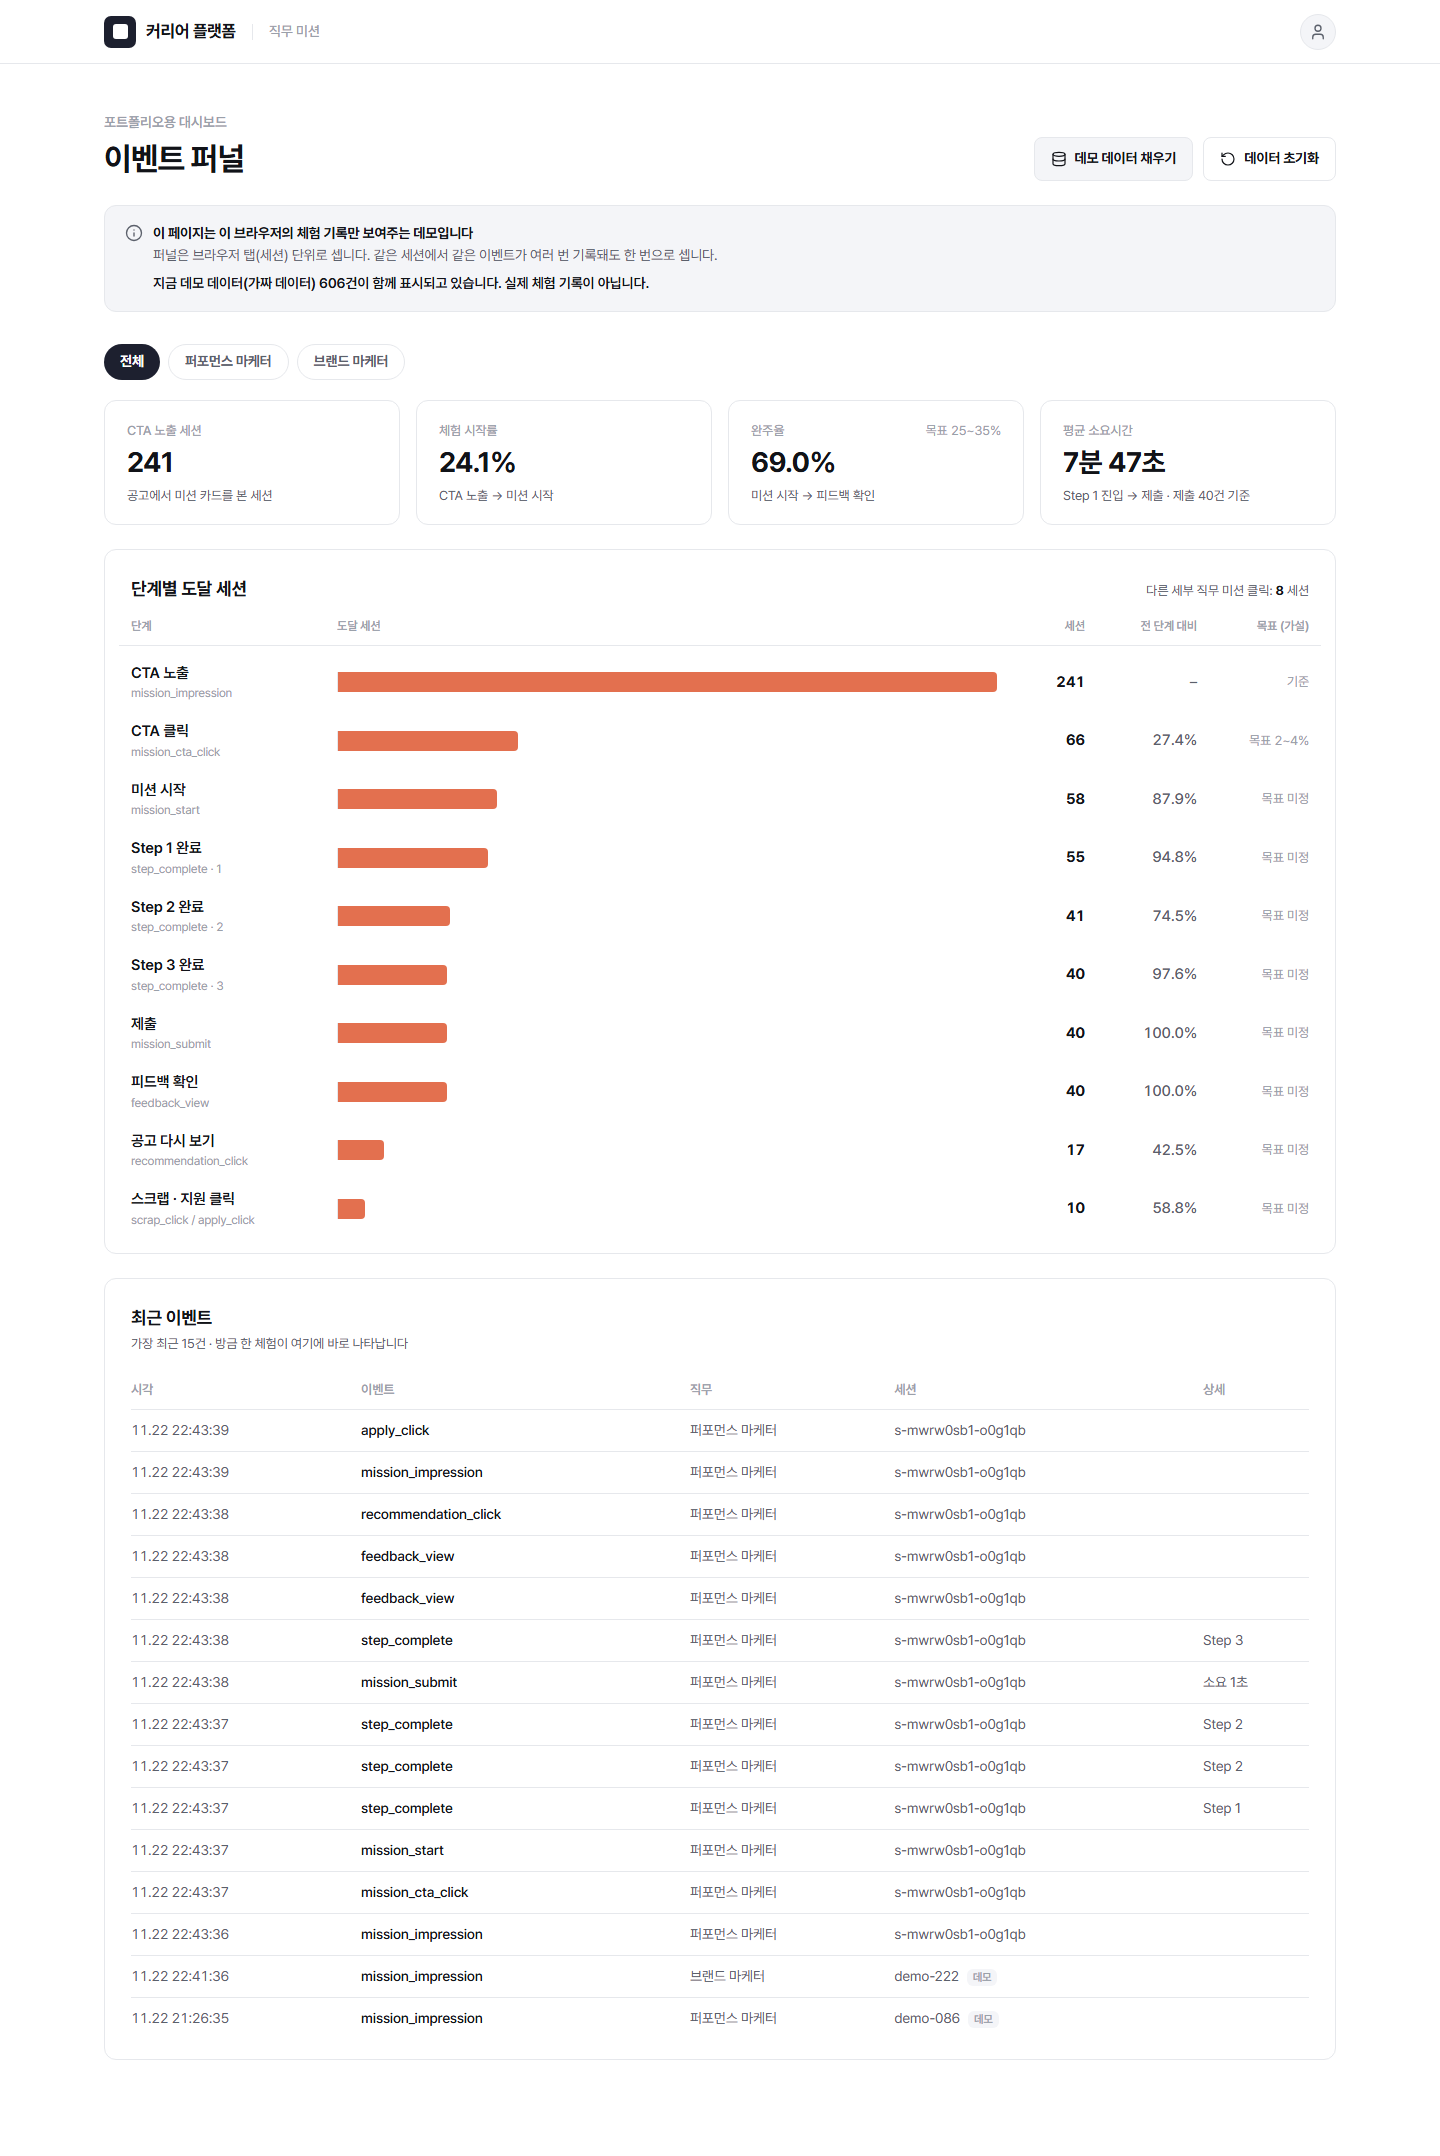
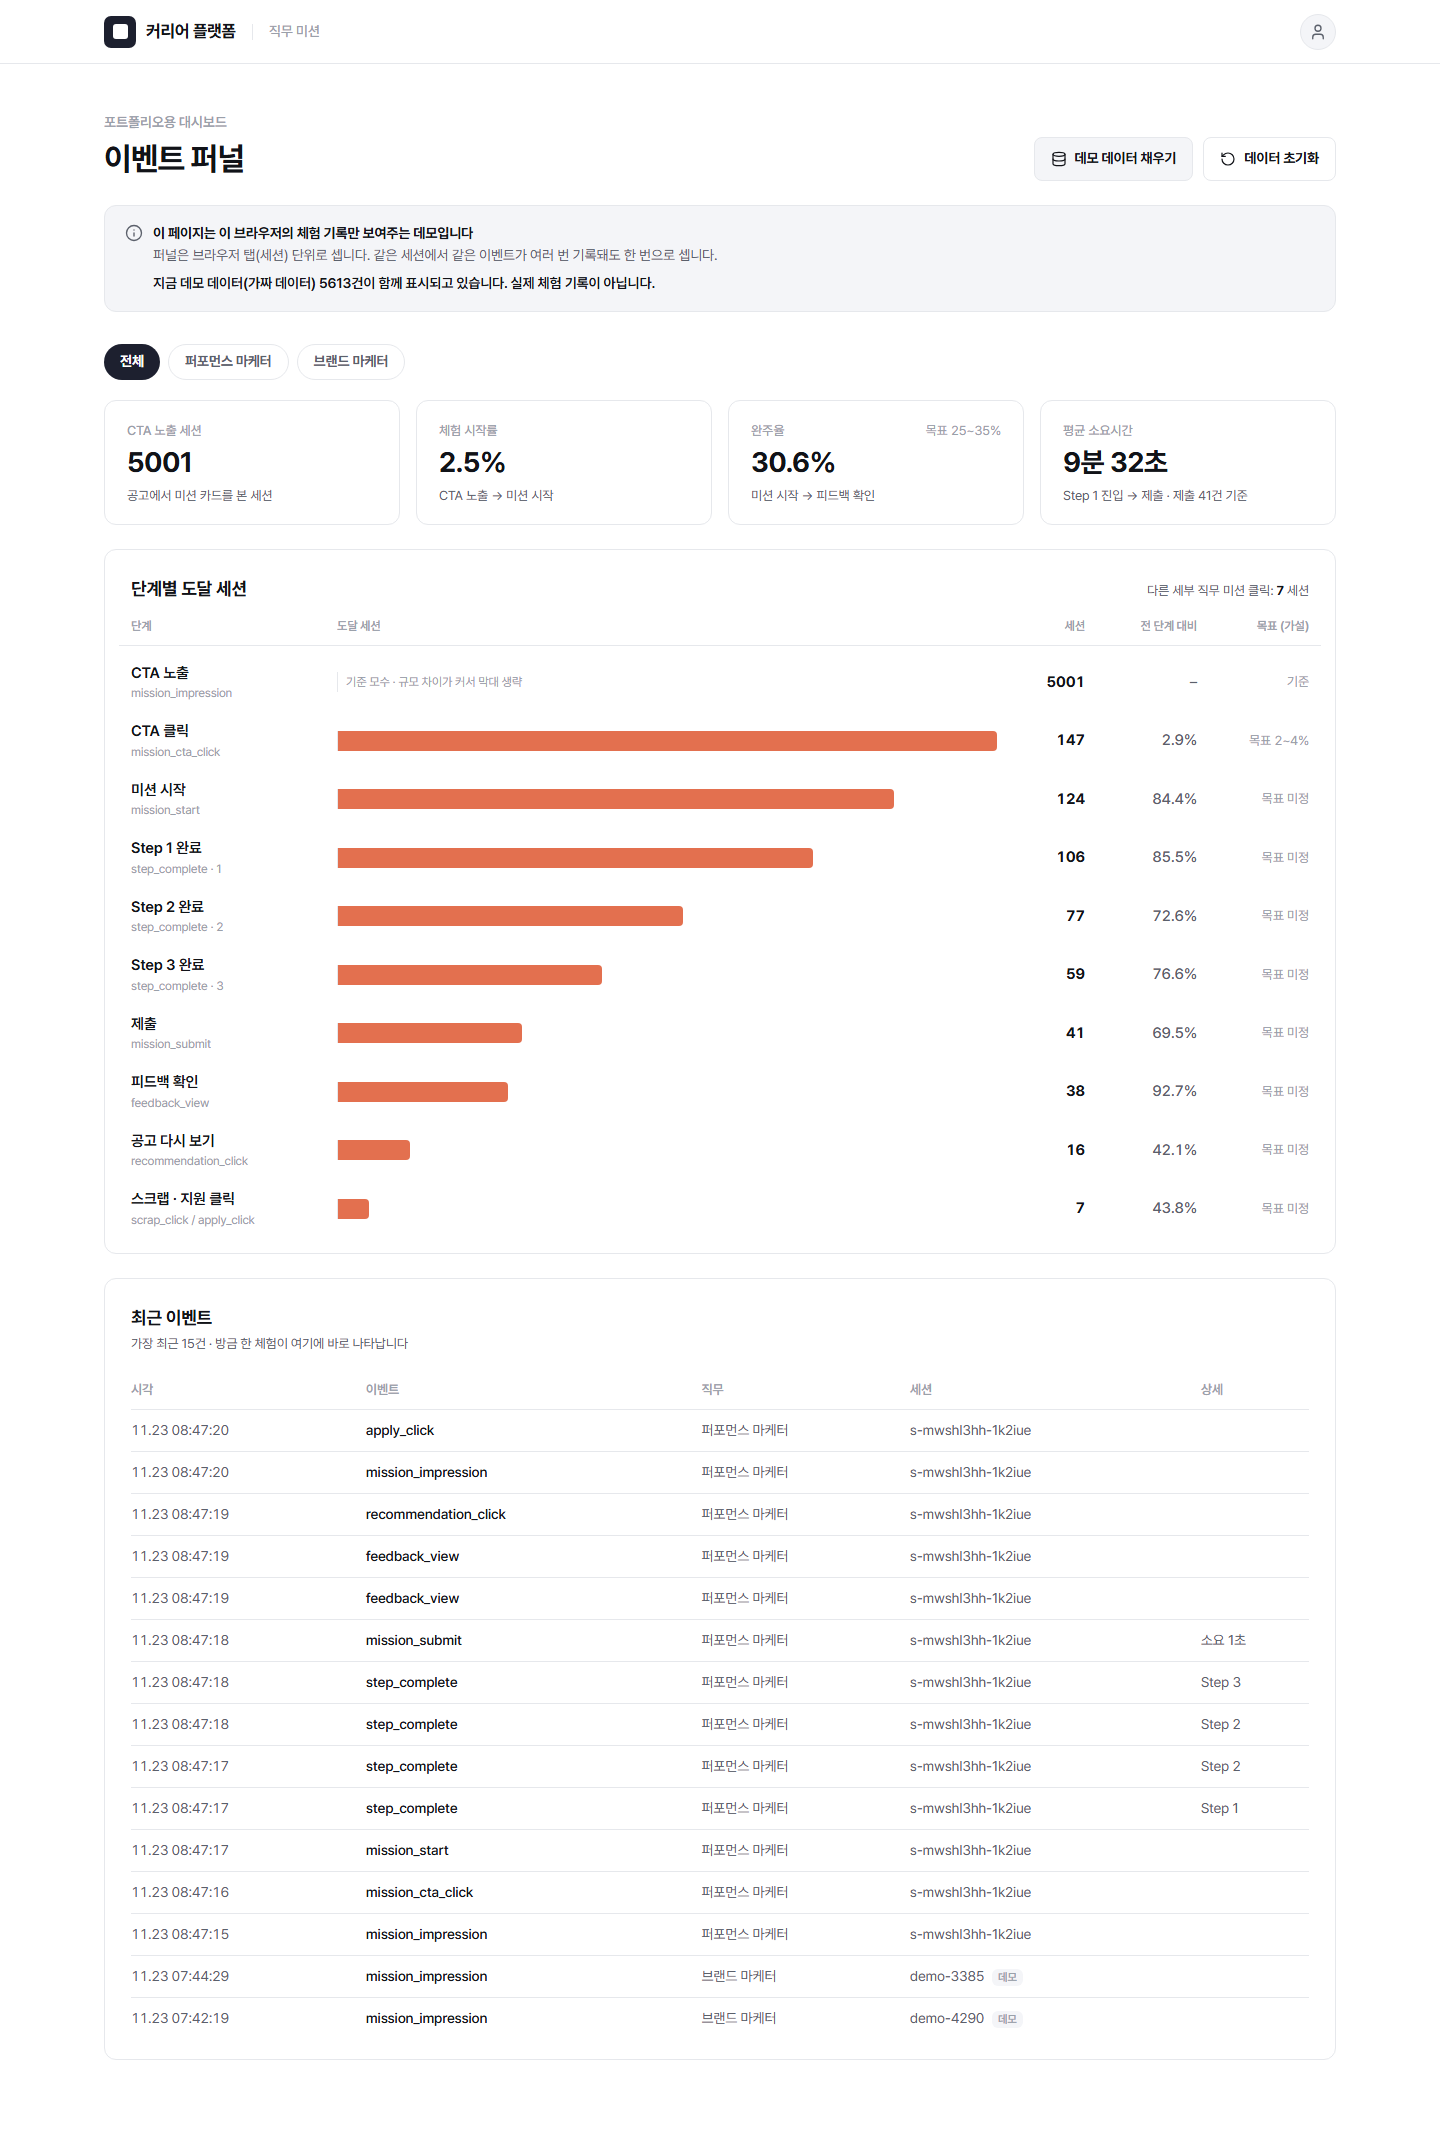
배포 URL 반영과 퍼널 데모 데이터 조정
- README에 배포 URL과 퍼널 대시보드 주소 추가
- 데모 데이터를 5,000세션으로 늘리고 목표 범위 근처로 조정
  (전체 CTA 클릭률 약 3%, 완주율 약 30%)
- 브랜드 직무는 CTA 클릭률 1.9%, 완주율 24.2%로 목표에 조금 못 미치게 구성
- CTA 노출이 다른 단계보다 5배 이상 크면 노출 막대를 생략해 나머지 단계를 비교하기 쉽게 표시
- 퍼널 검증에 목표 비율과 가짜 데이터 안내 확인 추가

diff --git a/lib/funnel.ts b/lib/funnel.ts
@@ -105,7 +105,9 @@ export function computeFunnel(all: TrackedEvent[], filter: string): FunnelSummar
   return { rows, avgDurationSec, submitCount: durations.length, nextMissionSessions };
 }
 
-// ── 데모 데이터 (가짜). 같은 결과가 나오도록 고정 시드 난수를 쓴다. ──
+// ── 데모 데이터 (가짜). 고정 시드와 단계별 고정 세션 수로 항상 같은 결과가 나온다. ──
+// 전체: CTA 클릭률 약 3%, 완주율 약 30% (목표 범위 안)
+// 브랜드: CTA 클릭률 1.9%, 완주율 24.2% (목표 2~4%, 25~35%에 조금 못 미치게)
 
 function mulberry32(seed: number) {
   return () => {
@@ -117,42 +119,48 @@ function mulberry32(seed: number) {
   };
 }
 
-export const DEMO_SESSIONS = 240;
+const DEMO_PLAN = {
+  "performance-marketing": {
+    impression: 3000, cta: 108, start: 90, step1: 78, step2: 58, step3: 45,
+    submit: 31, feedback: 29, next: 5, recommendation: 12, action: 5,
+  },
+  "brand-marketing": {
+    impression: 2000, cta: 38, start: 33, step1: 27, step2: 18, step3: 13,
+    submit: 9, feedback: 8, next: 2, recommendation: 3, action: 1,
+  },
+} as const;
+
+export const DEMO_SESSIONS = Object.values(DEMO_PLAN).reduce((sum, p) => sum + p.impression, 0);
 
 export function generateDemoEvents(now: number = Date.now()): TrackedEvent[] {
   const rand = mulberry32(20261122);
   const out: TrackedEvent[] = [];
-  for (let i = 0; i < DEMO_SESSIONS; i++) {
-    const sid = `demo-${String(i).padStart(3, "0")}`;
-    const id = rand() < 0.6 ? "performance-marketing" : "brand-marketing";
-    let ts = now - Math.floor(rand() * 14 * 86_400_000);
-    const push = (name: EventName, props: TrackedEvent["props"] = {}) => {
-      ts += Math.floor(5_000 + rand() * 60_000);
-      out.push({ name, ts, sid, props: { ...props, demo: true } });
-    };
+  let index = 0;
 
-    push("mission_impression", { jobId: id });
-    const goNext = (p: number) => rand() < p;
-    if (goNext(0.3)) {
-      push("mission_cta_click", { jobId: id });
-      if (goNext(0.85)) {
-        push("mission_start", { missionId: id });
-        let reached = 0;
-        for (const [step, p] of [[1, 0.92], [2, 0.78], [3, 0.9]] as const) {
-          if (!goNext(p)) break;
-          push("step_complete", { missionId: id, step });
-          reached = step;
-        }
-        if (reached === 3 && goNext(0.95)) {
-          push("mission_submit", { missionId: id, durationSec: Math.floor(240 + rand() * 540) });
-          push("feedback_view", { missionId: id });
-          if (goNext(0.2)) push("next_mission_click", { from: id, to: id === "performance-marketing" ? "brand-marketing" : "performance-marketing" });
-          if (goNext(0.4)) {
-            push("recommendation_click", { missionId: id, jobId: id });
-            if (goNext(0.45)) push(rand() < 0.65 ? "scrap_click" : "apply_click", { jobId: id });
-          }
-        }
+  for (const [id, plan] of Object.entries(DEMO_PLAN)) {
+    const other = id === "performance-marketing" ? "brand-marketing" : "performance-marketing";
+    for (let i = 0; i < plan.impression; i++) {
+      const sid = `demo-${String(index++).padStart(4, "0")}`;
+      // 마지막 이벤트가 미래 시각이 되지 않도록 1시간 이전부터 시작한다
+      let ts = now - 3_600_000 - Math.floor(rand() * 14 * 86_400_000);
+      const push = (name: EventName, props: NonNullable<TrackedEvent["props"]>) => {
+        ts += Math.floor(5_000 + rand() * 60_000);
+        out.push({ name, ts, sid, props: { ...props, demo: true } });
+      };
+
+      push("mission_impression", { jobId: id });
+      if (i < plan.cta) push("mission_cta_click", { jobId: id });
+      if (i < plan.start) push("mission_start", { missionId: id });
+      if (i < plan.step1) push("step_complete", { missionId: id, step: 1 });
+      if (i < plan.step2) push("step_complete", { missionId: id, step: 2 });
+      if (i < plan.step3) push("step_complete", { missionId: id, step: 3 });
+      if (i < plan.submit) {
+        push("mission_submit", { missionId: id, durationSec: Math.floor(240 + rand() * 540) });
       }
+      if (i < plan.feedback) push("feedback_view", { missionId: id });
+      if (i < plan.next) push("next_mission_click", { from: id, to: other });
+      if (i < plan.recommendation) push("recommendation_click", { missionId: id, jobId: id });
+      if (i < plan.action) push(rand() < 0.65 ? "scrap_click" : "apply_click", { jobId: id });
     }
   }
   return out.sort((a, b) => a.ts - b.ts);

diff --git a/components/FunnelDashboard.tsx b/components/FunnelDashboard.tsx
@@ -48,8 +48,8 @@ function StatTile({
   );
 }
 
-function FunnelBar({ row, max }: { row: FunnelRow; max: number }) {
-  const width = max > 0 ? (row.sessions / max) * 100 : 0;
+function FunnelBar({ row, max, omitBar }: { row: FunnelRow; max: number; omitBar: boolean }) {
+  const width = !omitBar && max > 0 ? (row.sessions / max) * 100 : 0;
   const target = KPI_TARGETS[row.key];
   return (
     <li
@@ -62,10 +62,17 @@ function FunnelBar({ row, max }: { row: FunnelRow; max: number }) {
       </div>
 
       <div className="relative h-5 border-l border-border">
-        <div
-          className="h-5 rounded-r-[4px] bg-accent"
-          style={{ width: `${width}%`, minWidth: row.sessions > 0 ? 2 : 0 }}
-        />
+        {omitBar ? (
+          // TODO(문구): 막대 생략 안내
+          <span className="flex h-5 items-center pl-2 text-[12px] text-text-muted">
+            기준 모수 · 규모 차이가 커서 막대 생략
+          </span>
+        ) : (
+          <div
+            className="h-5 rounded-r-[4px] bg-accent"
+            style={{ width: `${width}%`, minWidth: row.sessions > 0 ? 2 : 0 }}
+          />
+        )}
         {/* 호버·포커스 툴팁 */}
         <div
           role="tooltip"
@@ -140,7 +147,11 @@ export default function FunnelDashboard() {
   const [filter, setFilter] = useState("all");
   const summary = useMemo(() => computeFunnel(events, filter), [events, filter]);
   const demoCount = events.filter(isDemo).length;
-  const max = Math.max(1, ...summary.rows.map((r) => r.sessions));
+  // 노출이 다음 단계들보다 5배 이상 크면 노출 막대를 빼고 나머지 단계끼리 같은 축으로 비교한다.
+  const impressionSessions = summary.rows[0].sessions;
+  const maxAfterFirst = Math.max(0, ...summary.rows.slice(1).map((r) => r.sessions));
+  const omitFirstBar = maxAfterFirst > 0 && impressionSessions >= maxAfterFirst * 5;
+  const max = omitFirstBar ? maxAfterFirst : Math.max(1, impressionSessions, maxAfterFirst);
   const byKey = Object.fromEntries(summary.rows.map((r) => [r.key, r]));
   const rate = (a: string, b: string) =>
     byKey[b]?.sessions ? (byKey[a].sessions / byKey[b].sessions) * 100 : null;
@@ -250,7 +261,7 @@ export default function FunnelDashboard() {
             ) : (
               <ol className="mt-2 space-y-0.5">
                 {summary.rows.map((row) => (
-                  <FunnelBar key={row.key} row={row} max={max} />
+                  <FunnelBar key={row.key} row={row} max={max} omitBar={omitFirstBar && row.key === "impression"} />
                 ))}
               </ol>
             )}

diff --git a/README.md b/README.md
@@ -2,8 +2,8 @@
 
 **채용공고를 읽기만 하는 대신, 그 공고의 실제 업무를 10분 만에 직접 해보고 현직자 기준 피드백을 받는 웹 프로토타입입니다.**
 
-- 배포 URL: 배포 후 추가 예정
-- 퍼널 대시보드: 배포 URL 뒤에 `/admin/funnel`
+- 배포 URL: https://job-mission-web.vercel.app
+- 퍼널 대시보드: https://job-mission-web.vercel.app/admin/funnel
 
 > 서비스 기획·PO 포트폴리오용 프로토타입입니다. 서비스명 "커리어 플랫폼", 회사 "(주)에코브릿지", 브랜드 "무브먼트(MOVEMENT)"는 모두 가상입니다.
 
@@ -54,7 +54,7 @@
 - 목표 가설치를 함께 표시합니다(`data/kpi.ts`).
   - CTA 노출 → CTA 클릭: 2~4%
   - 완주율(미션 시작 → 피드백 확인): 25~35%
-- 서버 없이 이 브라우저의 기록만 보여주는 데모입니다. "데모 데이터 채우기"로 가짜 세션 240개를 넣어 볼 수 있고, 화면에 가짜 데이터임을 표시합니다.
+- 서버 없이 이 브라우저의 기록만 보여주는 데모입니다. "데모 데이터 채우기"로 가짜 세션 5,000개를 넣어 볼 수 있고, 화면에 가짜 데이터임을 표시합니다.
 
 ## 화면 구성
 
